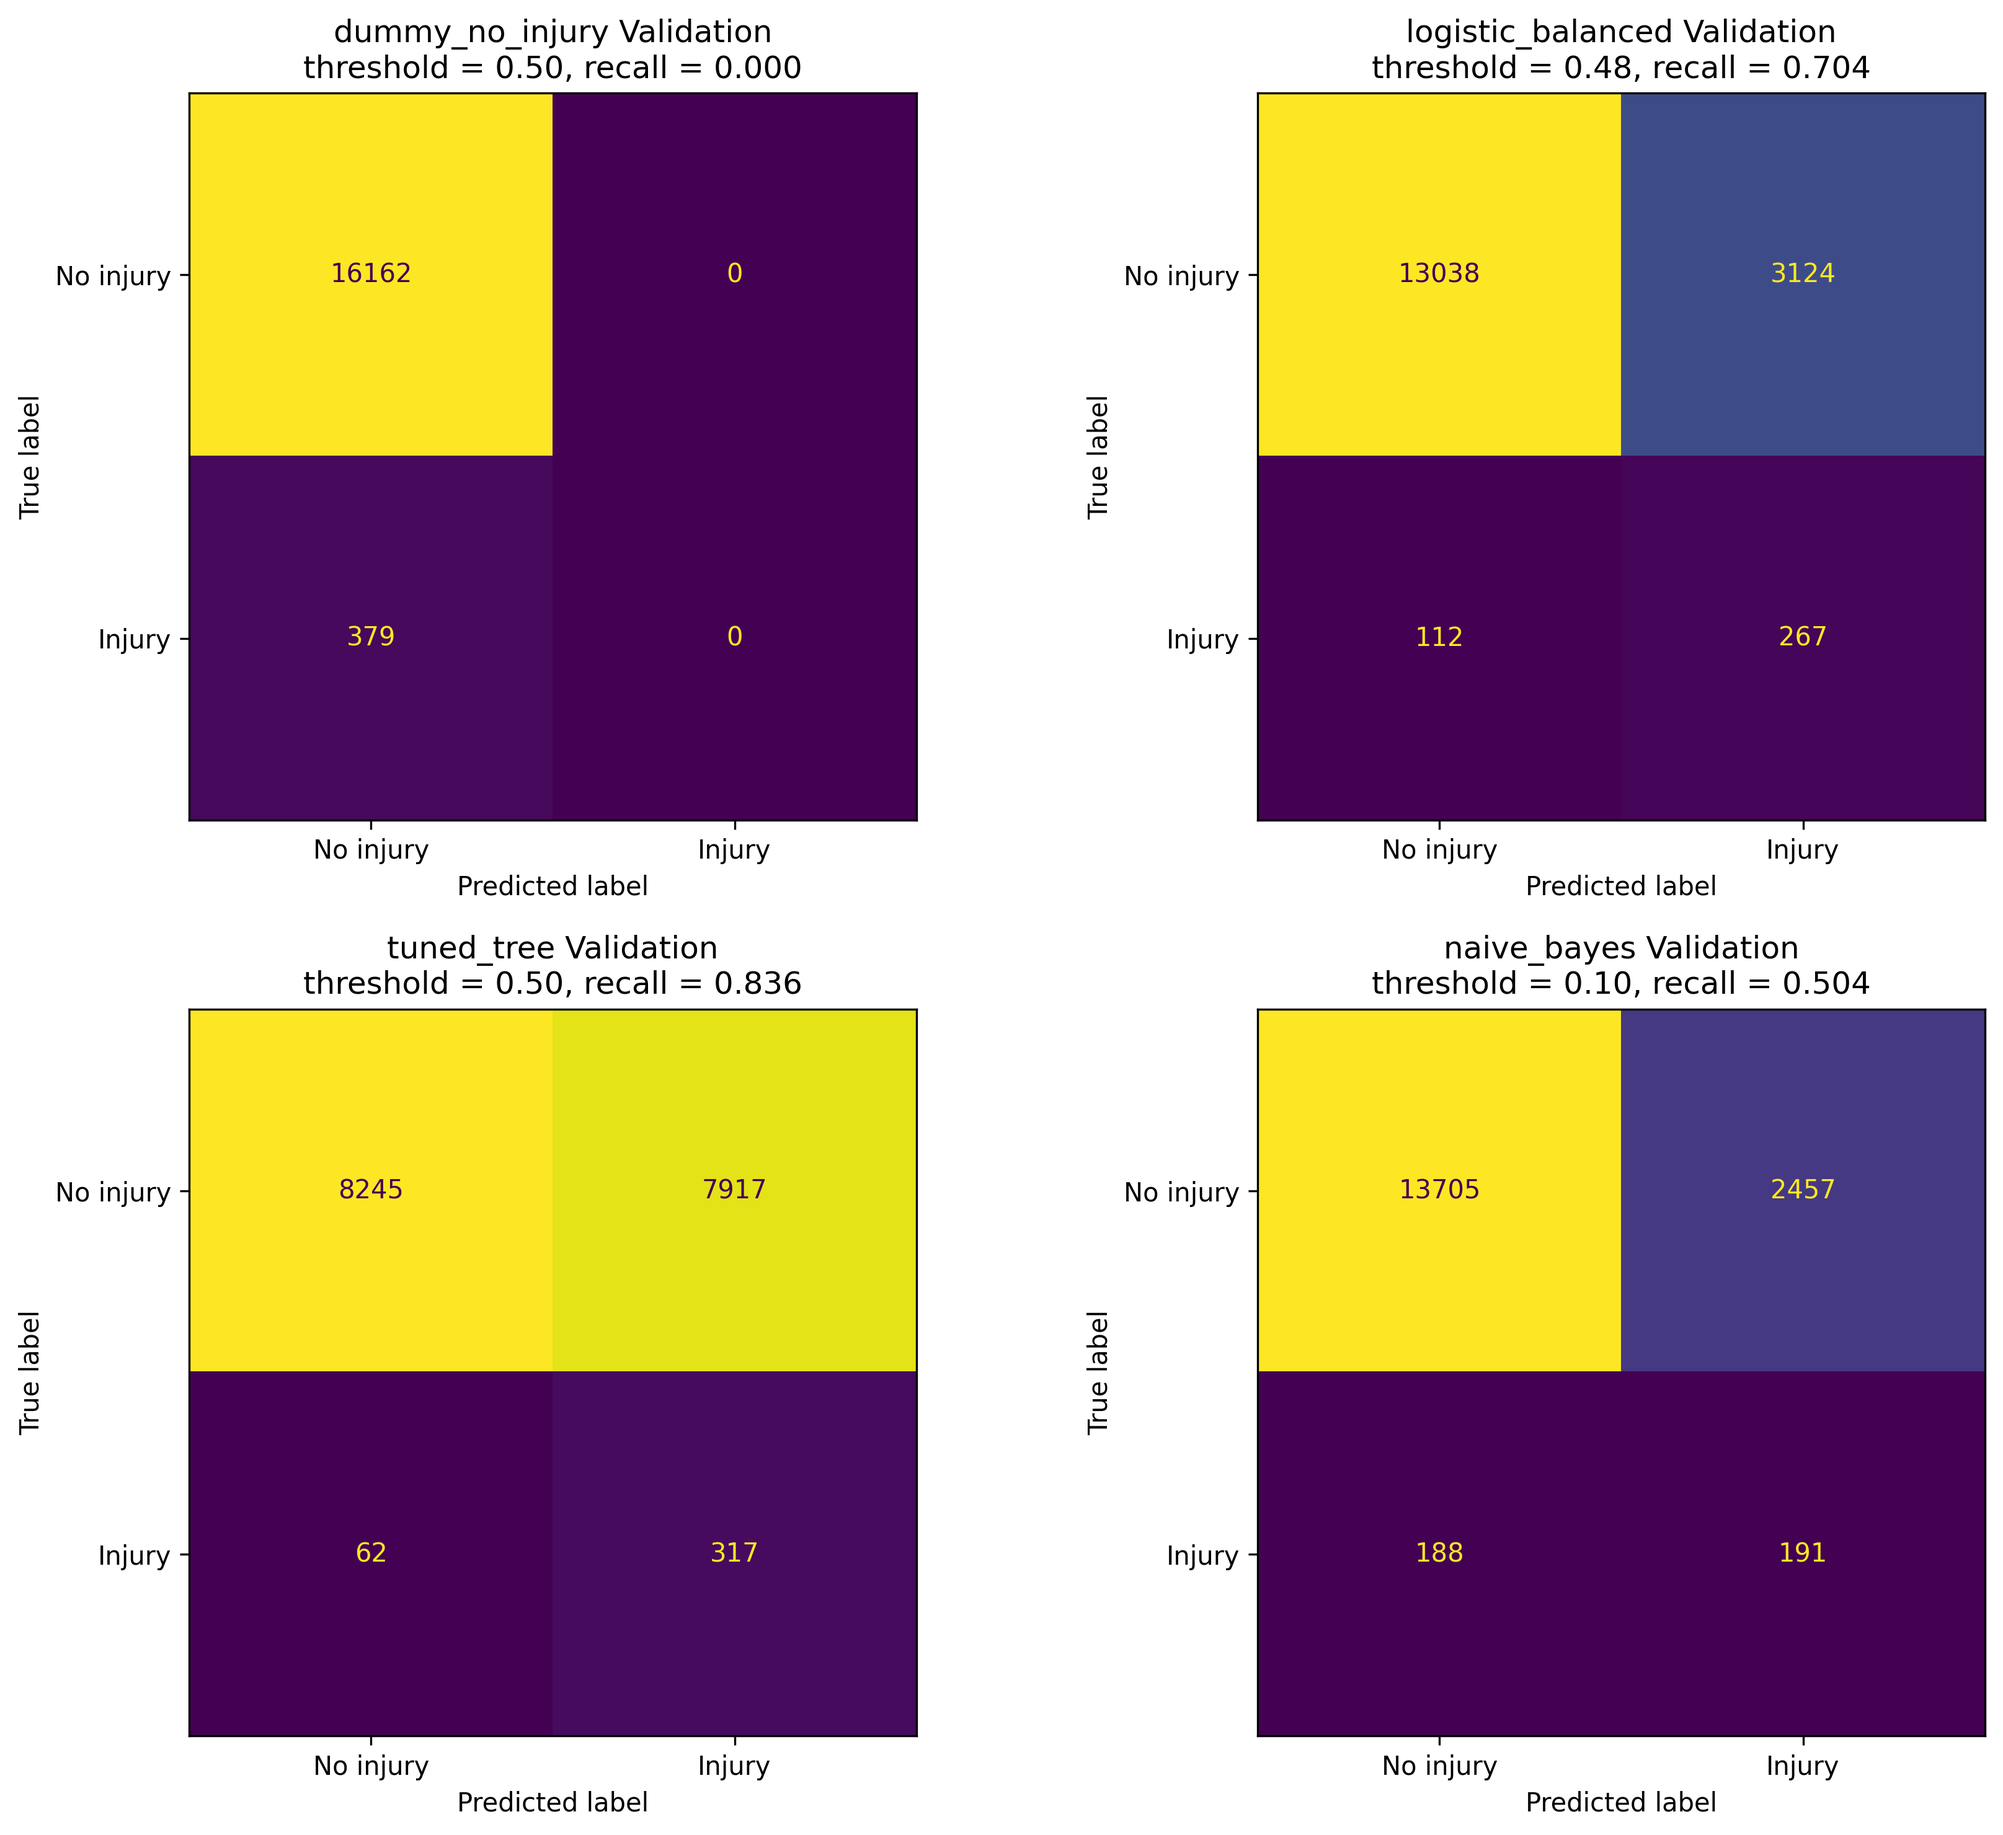
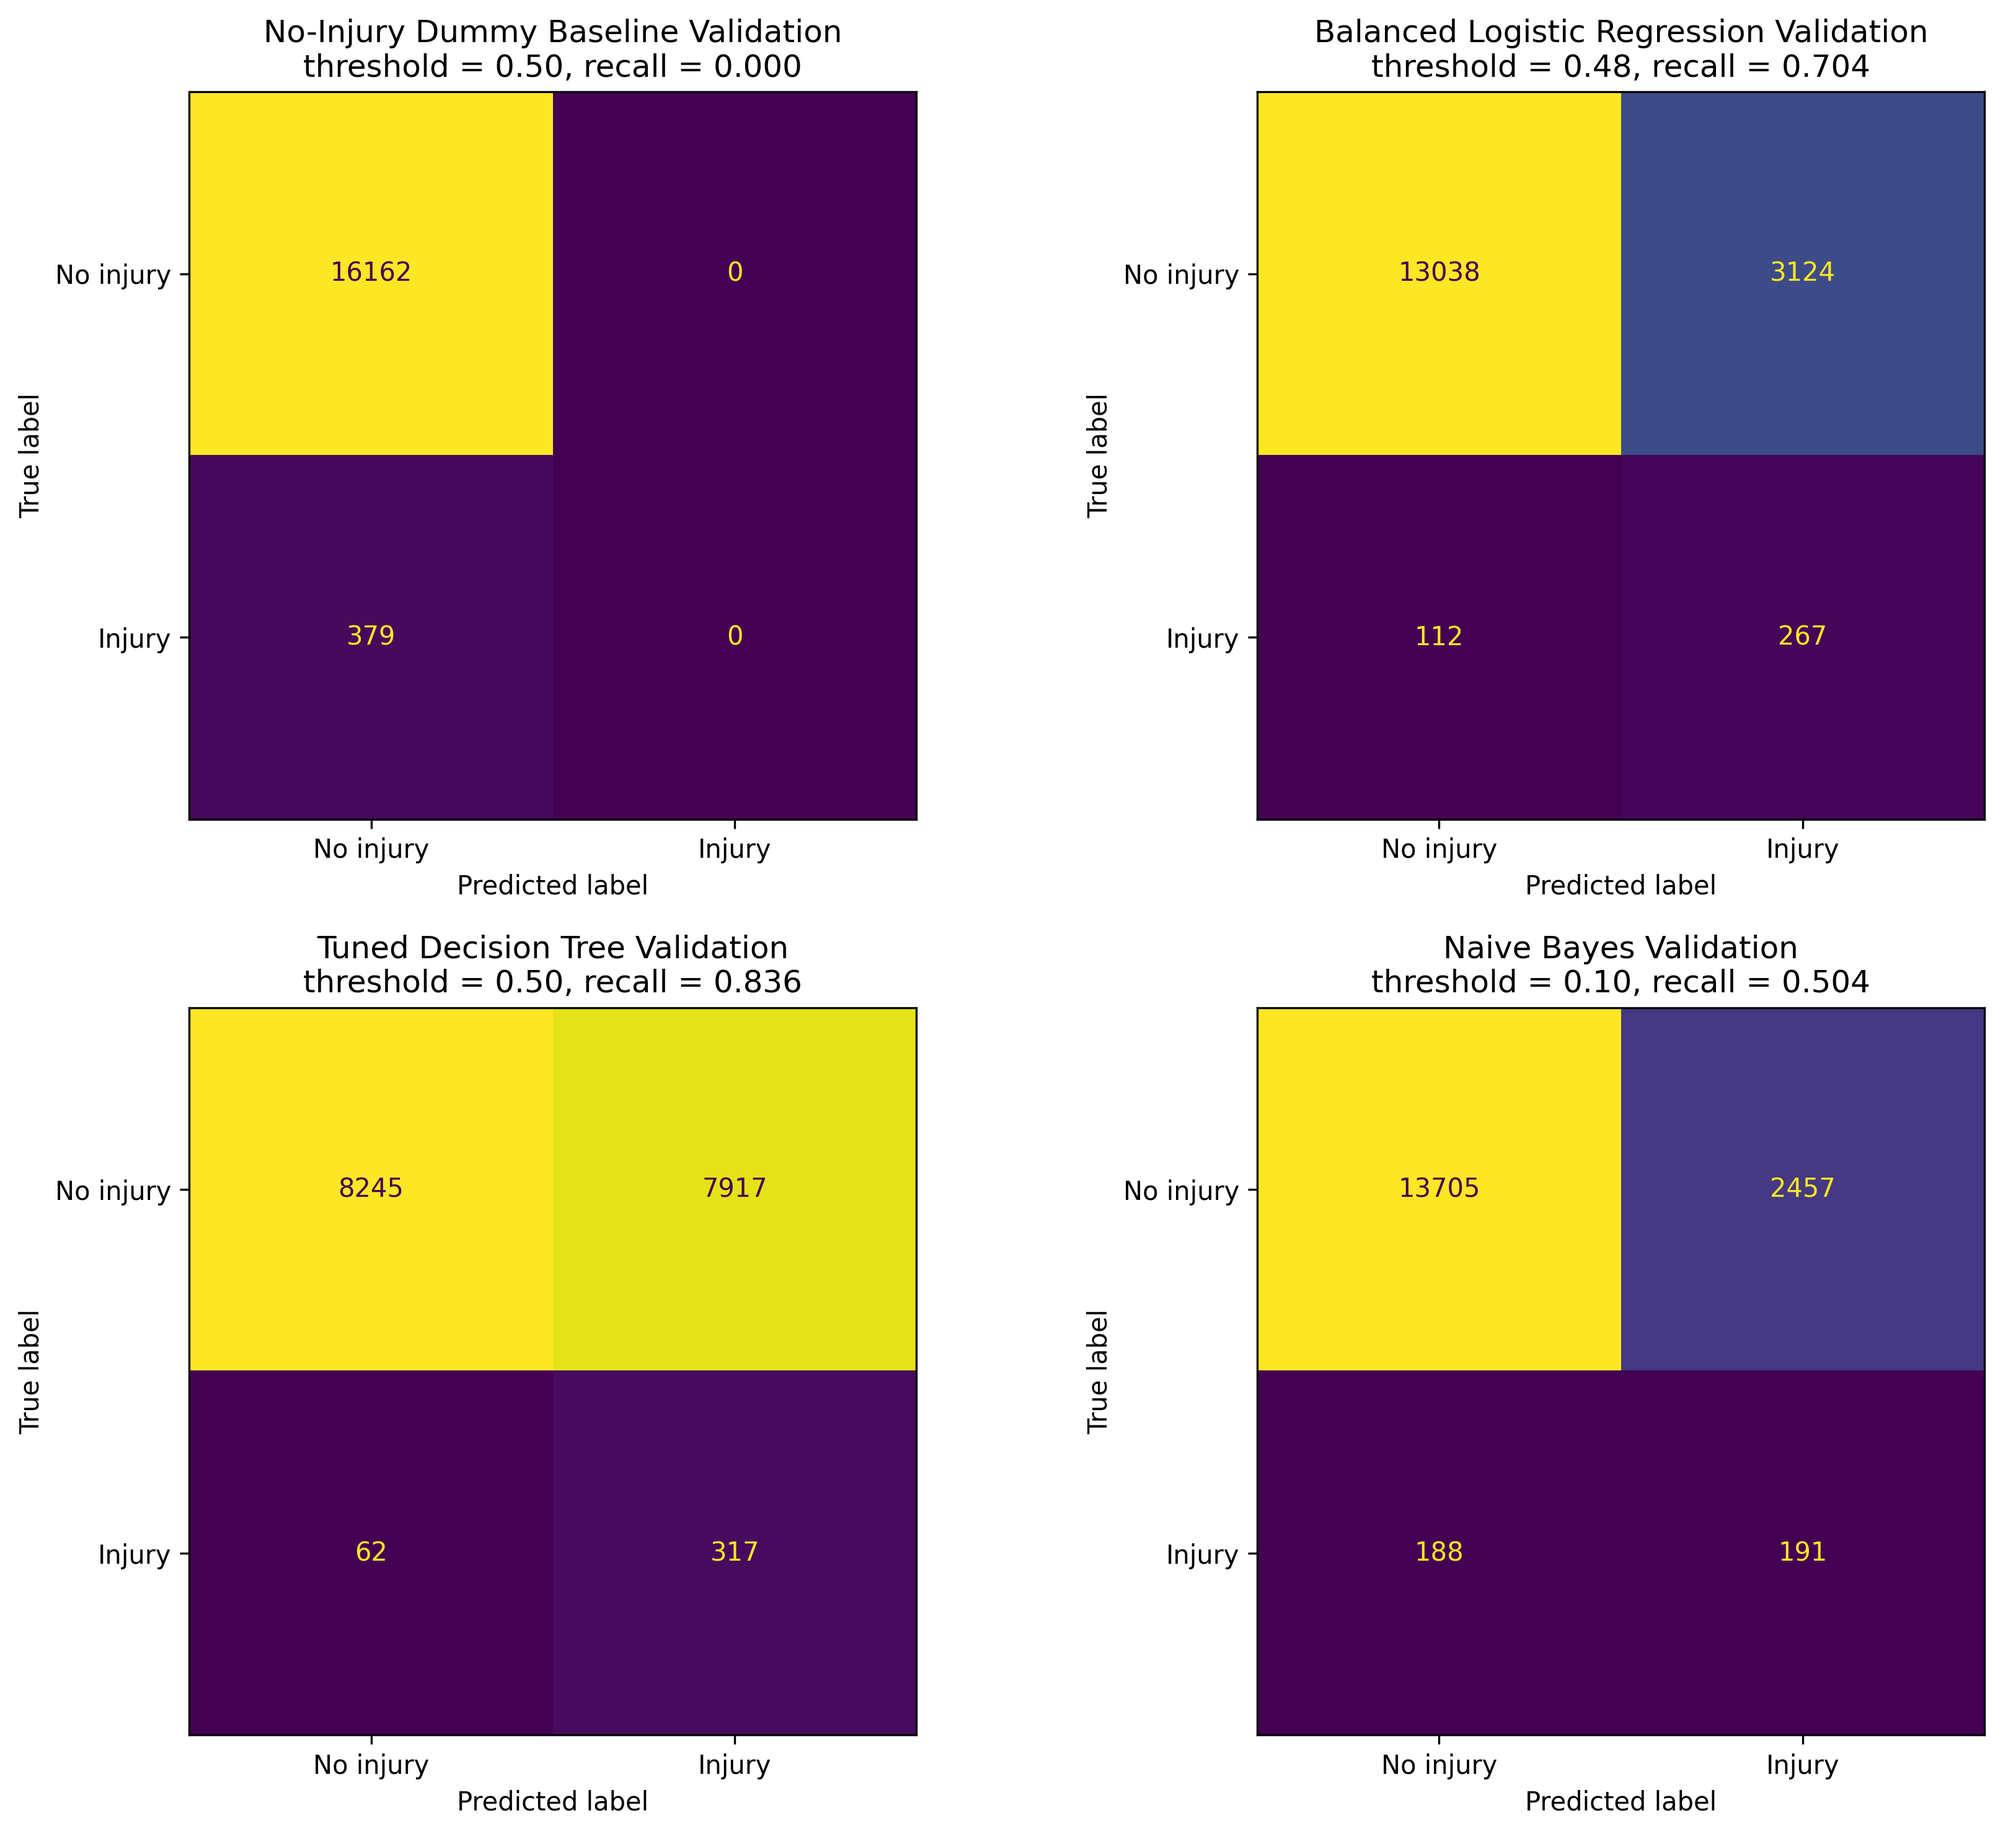
reproducibility check and final test run

diff --git a/src/modeling/metric_vis.py b/src/modeling/metric_vis.py
@@ -18,12 +18,24 @@ from sklearn.metrics import (
     roc_auc_score
 )
 
+MODEL_DISPLAY_NAMES = {
+    "dummy_no_injury": "No-Injury Dummy Baseline",
+    "logistic_balanced": "Balanced Logistic Regression",
+    "tuned_tree": "Tuned Decision Tree",
+    "naive_bayes": "Naive Bayes",
+}
+
+
+def display_model_name(model_name):
+    return MODEL_DISPLAY_NAMES.get(model_name, model_name.replace("_", " ").title())
+
 def plot_precision_recall(
         model_preds,
         y_true,
         save_path=None,
         skip_model_names=None,
-        show_baseline=True
+        show_baseline=True,
+        title="Precision–Recall Curve",
 ):
     fig, ax = plt.subplots(figsize = (8, 6))
     skip_model_names = set(skip_model_names or [])
@@ -44,15 +56,16 @@ def plot_precision_recall(
 
         precision, recall, thresholds = precision_recall_curve(y_true, y_proba)
         avg_precision = average_precision_score(y_true, y_proba)
+        display_name = display_model_name(model_name)
 
         ax.plot(
             recall,
             precision,
             linewidth = 2,
-            label=f"{model_name} AP = {avg_precision: .3f}"
+            label=f"{display_name} AP = {avg_precision:.3f}"
         )
 
-    ax.set_title(f"Precision Recall Curve")
+    ax.set_title(title)
     ax.set_xlabel("Recall")
     ax.set_ylabel("Precision")
 
@@ -78,11 +91,12 @@ def plot_roc_curves(
     for model_name, y_proba in model_preds.items():
         fpr, tpr, thresholds = roc_curve(y_true, y_proba)
         auc = roc_auc_score(y_true, y_proba)
+        display_name = display_model_name(model_name)
 
         ax.plot(
             fpr, tpr, linewidth = 2,
             linestyle = "--",
-            label = f"{model_name} - AUC {auc}"
+            label = f"{display_name} - AUC {auc:.3f}"
         )
     
     ax.set_title(title)

diff --git a/src/modeling/ind_model_functions.py b/src/modeling/ind_model_functions.py
@@ -7,6 +7,7 @@ from src.modeling.models import positive_class_proba
 from sklearn.metrics import ConfusionMatrixDisplay
 
 from src.modeling.metric_vis import (
+    display_model_name,
     plot_roc_curves,
     plot_precision_recall,
     threshold_metrics,
@@ -130,13 +131,14 @@ def run_model_family(
         flat_axes = axes.ravel()
 
         for ax, (model_name, details) in zip(flat_axes, validation_confusion_matrices.items()):
+            display_name = display_model_name(model_name)
             disp = ConfusionMatrixDisplay(
                 confusion_matrix=details["matrix"],
                 display_labels=["No injury", "Injury"],
             )
             disp.plot(ax=ax, values_format="d", colorbar=False)
             ax.set_title(
-                f"{model_name} Validation\n"
+                f"{display_name} Validation\n"
                 f"threshold = {details['threshold']:.2f}, "
                 f"recall = {details['recall']:.3f}"
             )
@@ -153,10 +155,11 @@ def run_model_family(
         plt.close(fig)
 
     if validation_probas:
+        family_display_name = family.replace("_", " ").title()
         fig, ax = plot_roc_curves(
             model_preds=validation_probas,
             y_true=y_val,
-            title=f"{family} Validation ROC Curves",
+            title=f"{family_display_name} Validation ROC Curves",
             save_path=output_dir / f"{family}_roc_curves_validation.png",
         )
         plt.close(fig)
@@ -165,6 +168,7 @@ def run_model_family(
             model_preds=validation_probas,
             y_true=y_val,
             skip_model_names={"dummy_no_injury"},
+            title=f"{family_display_name} Validation Precision–Recall Curves",
             save_path=output_dir / f"{family}_pr_curves_validation.png",
         )
         plt.close(fig)

diff --git a/src/pipeline/run_final_test.py b/src/pipeline/run_final_test.py
@@ -11,6 +11,7 @@ from src.paths import FINAL_TEST_METRICS_DIR, MODELING_DATA
 
 
 FINAL_MODEL_NAME = "logistic_balanced"
+FINAL_MODEL_DISPLAY_NAME = "Balanced Logistic Regression"
 FINAL_THRESHOLD = 0.48
 
 
@@ -68,7 +69,7 @@ def main():
     plt.close(fig)
 
     fig, ax = plot_roc_curves(
-        model_preds={FINAL_MODEL_NAME: y_test_proba},
+        model_preds={FINAL_MODEL_DISPLAY_NAME: y_test_proba},
         y_true=y_test,
         title="Final Test ROC Curve",
         save_path=FINAL_TEST_METRICS_DIR / "final_test_roc_curve.png",
